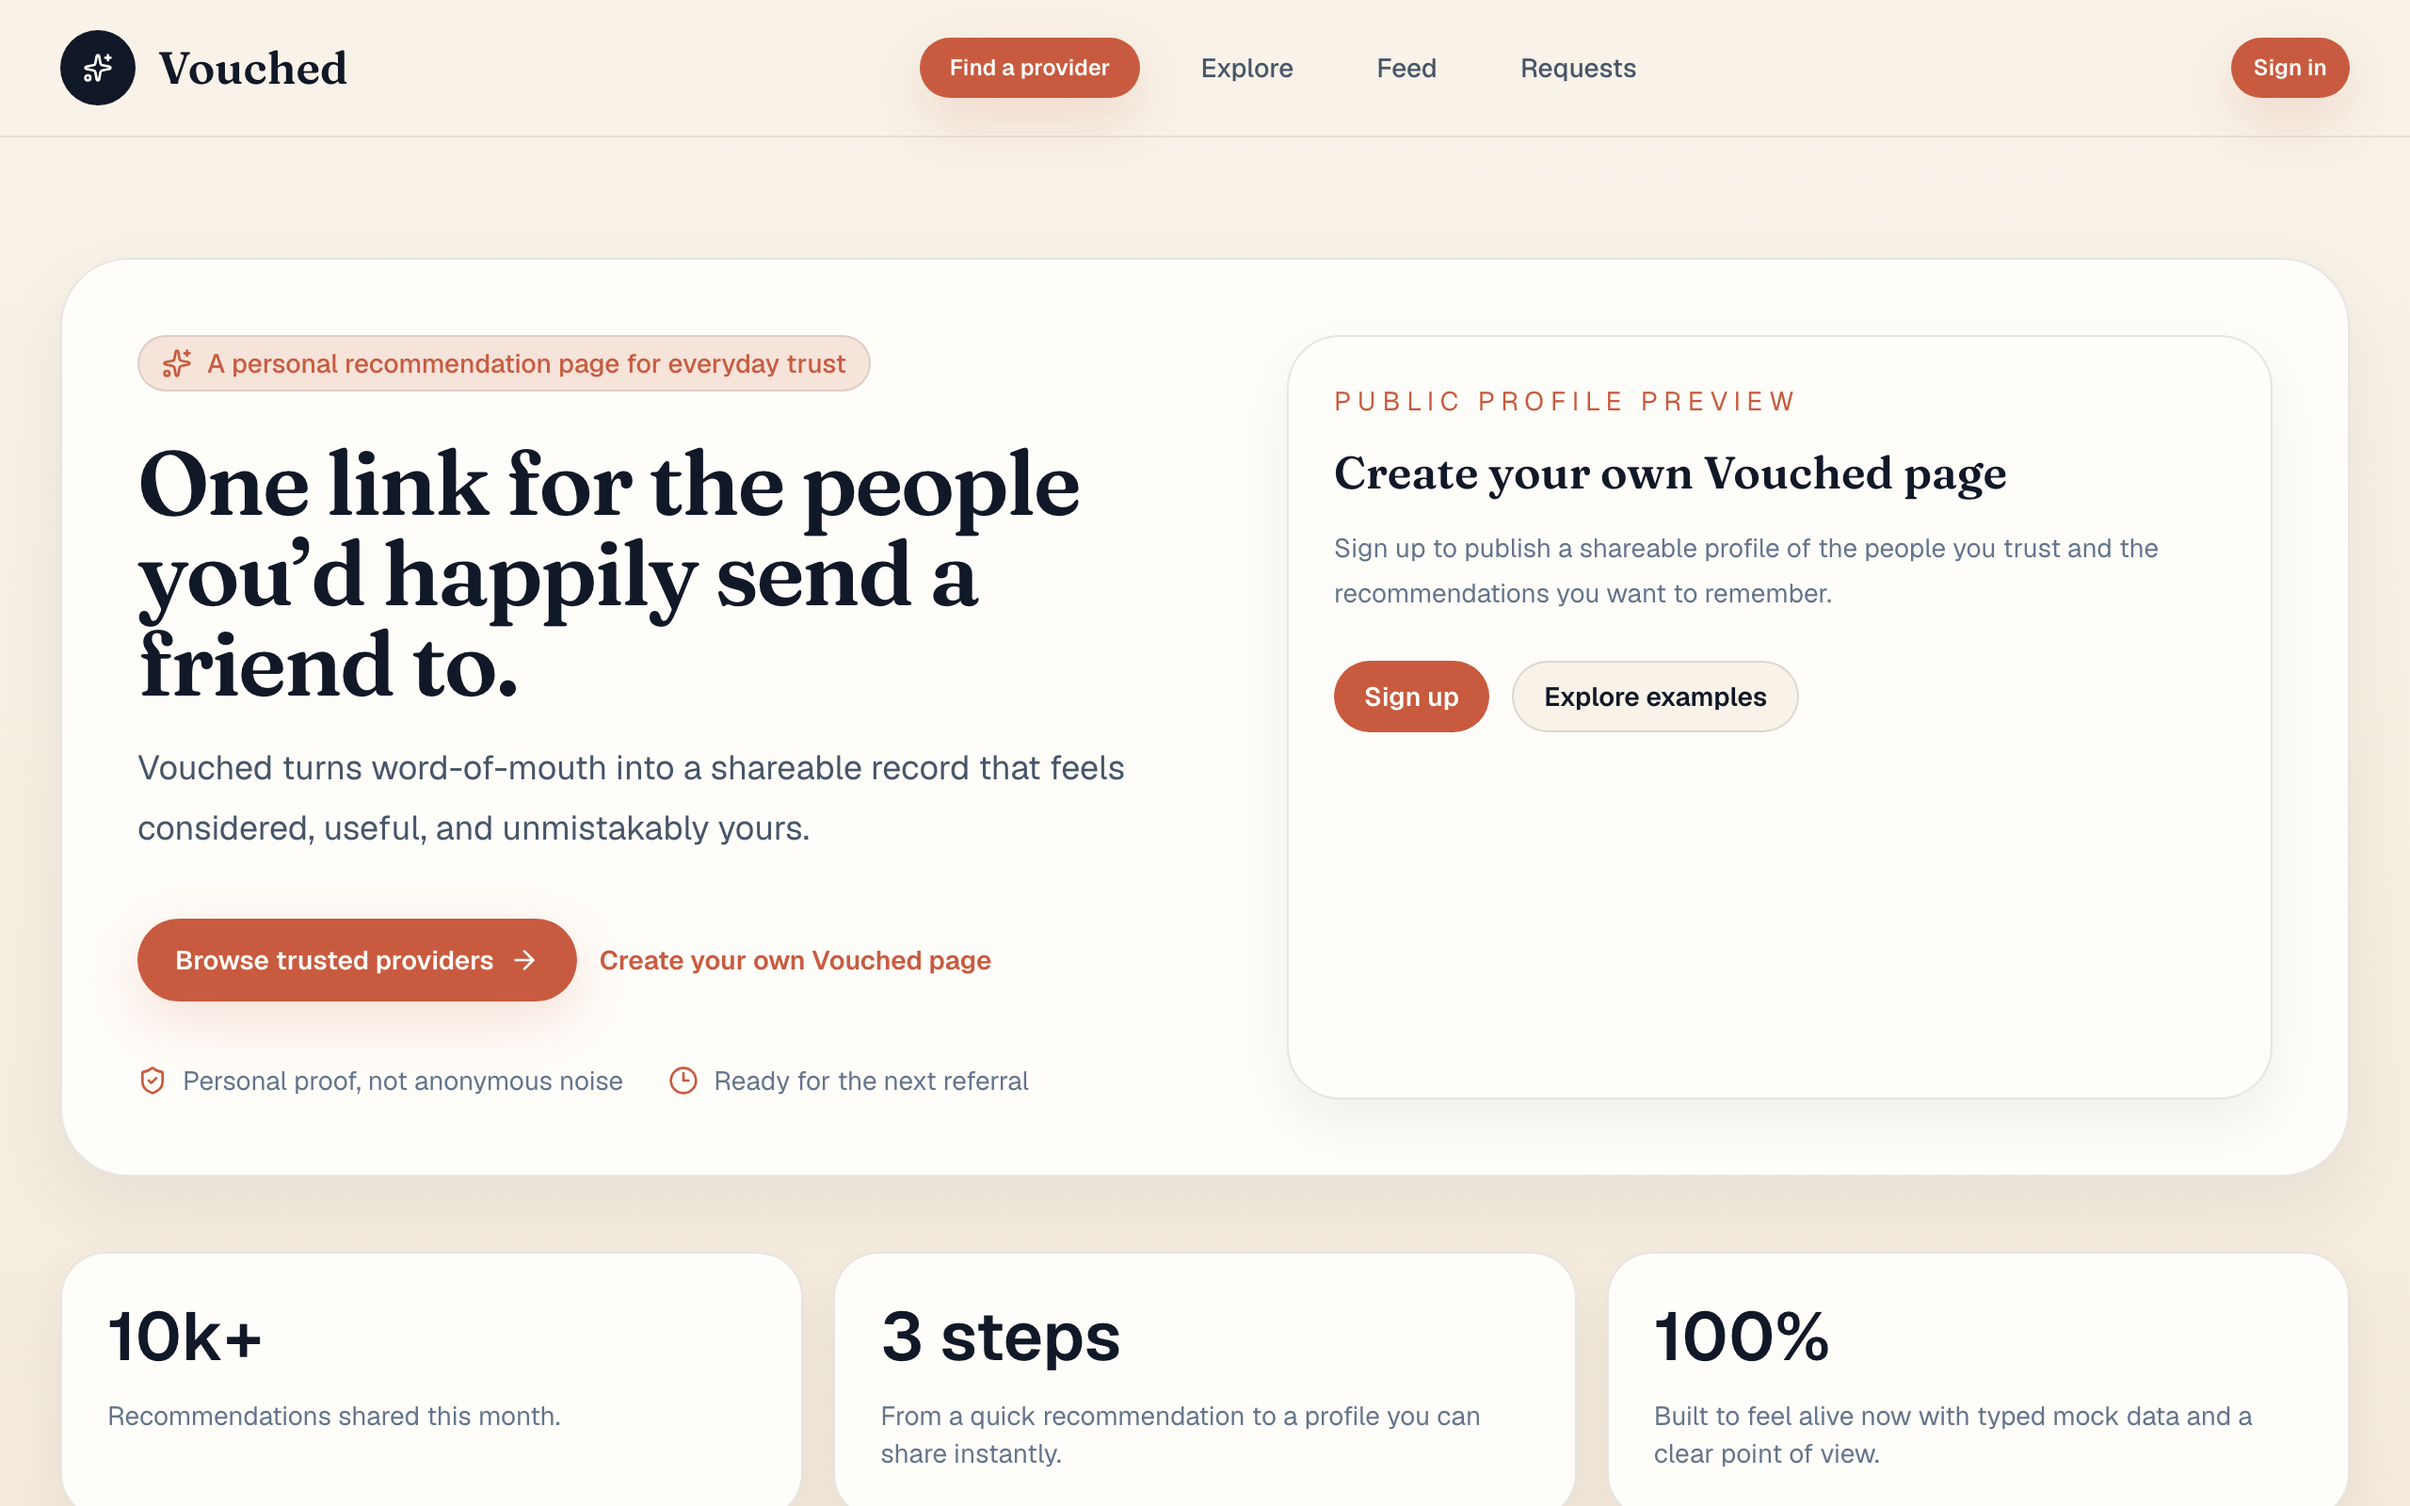
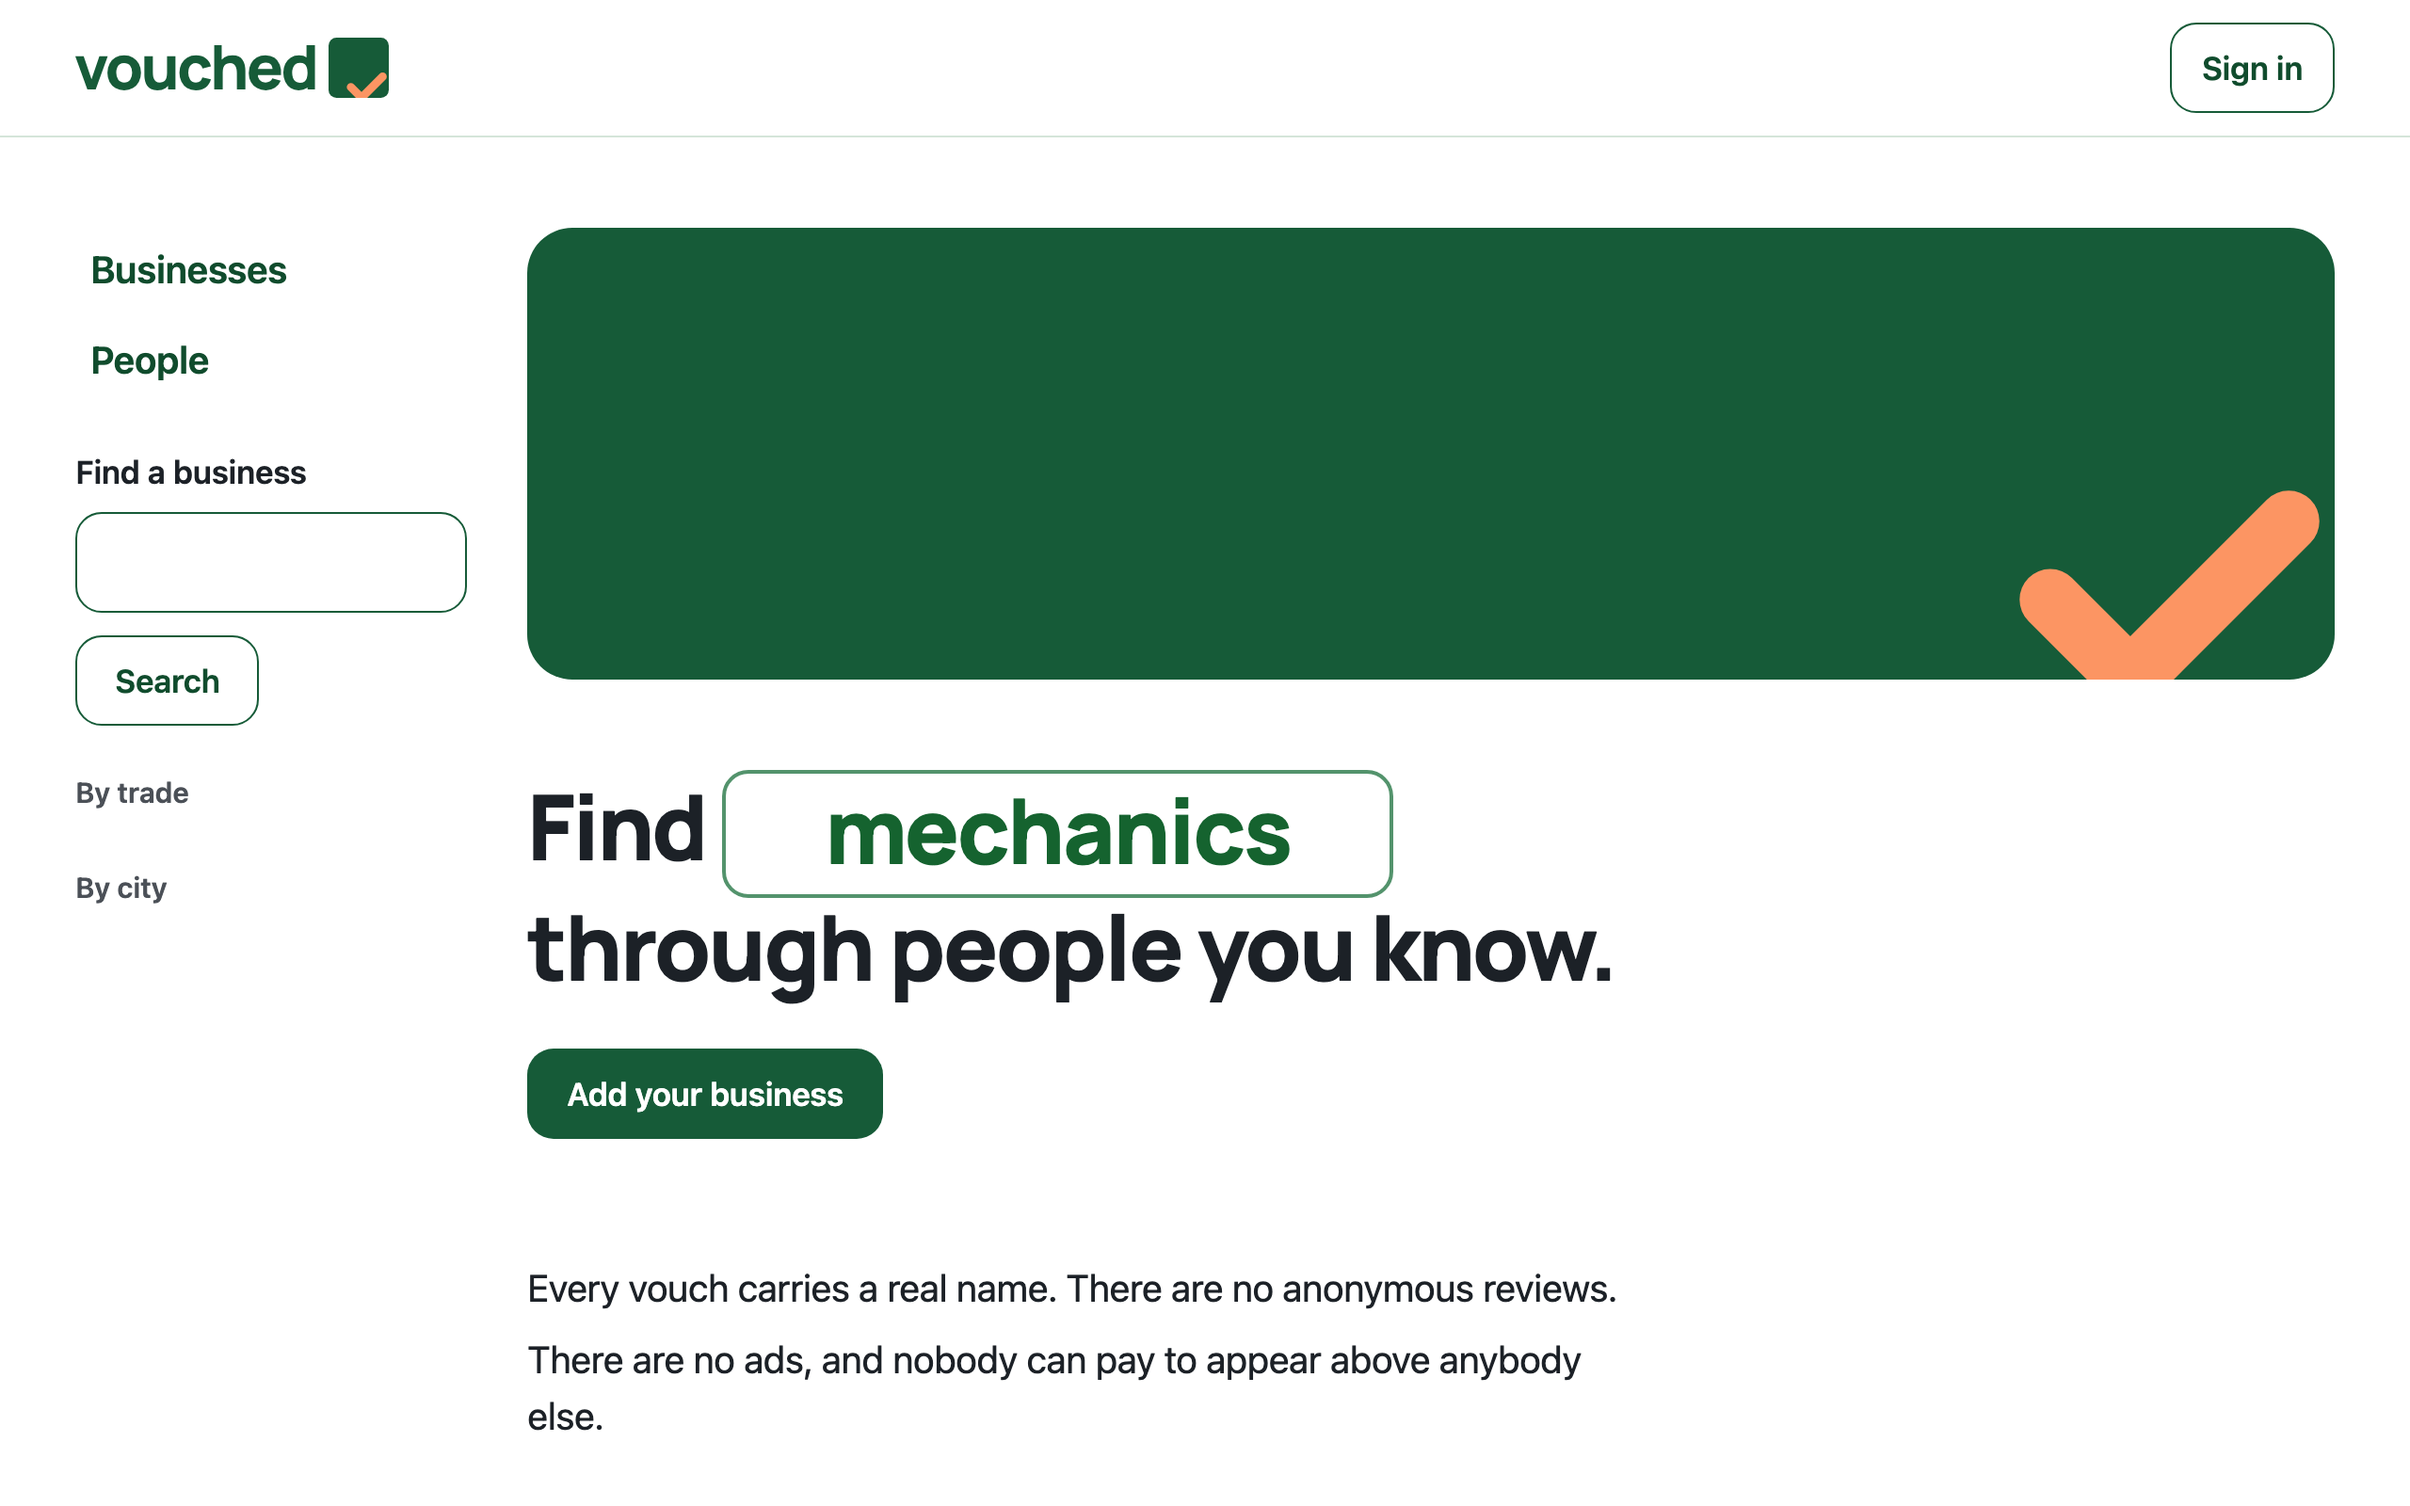
Point Vouched at vouchedsoftware.com and refresh its screenshot

diff --git a/src/content/projects/vouched.md b/src/content/projects/vouched.md
@@ -2,7 +2,7 @@
 title: "Vouched"
 description: "A social trust network where word-of-mouth becomes a shareable page: one link for the plumbers, dentists, and realtors you'd actually send a friend to. Personal proof instead of anonymous reviews."
 techStack: ["Next.js", "React 19", "TypeScript", "Tailwind CSS", "shadcn/ui", "Vercel"]
-liveUrl: "https://vouched-omega.vercel.app"
+liveUrl: "https://www.vouchedsoftware.com"
 repoUrl: "https://github.com/justin-notarfrancesco/vouched"
 image: "/projects/vouched.png"
 lineColor: "purple"
